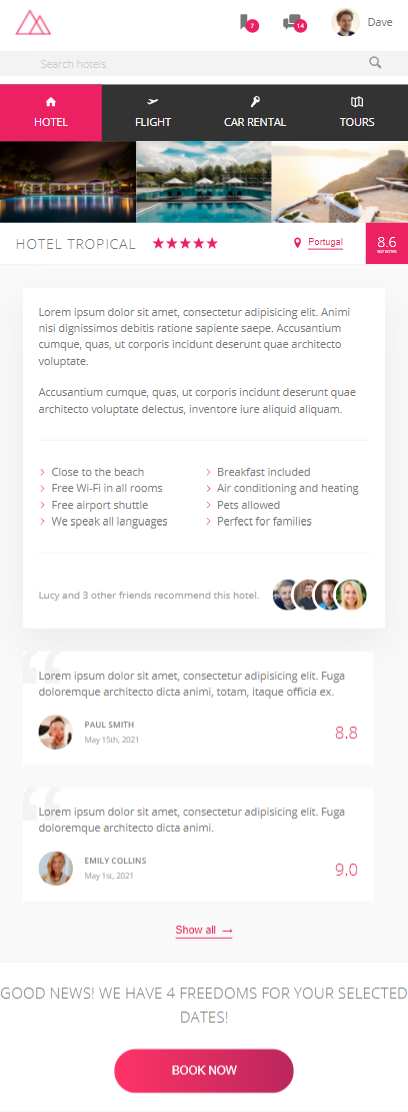
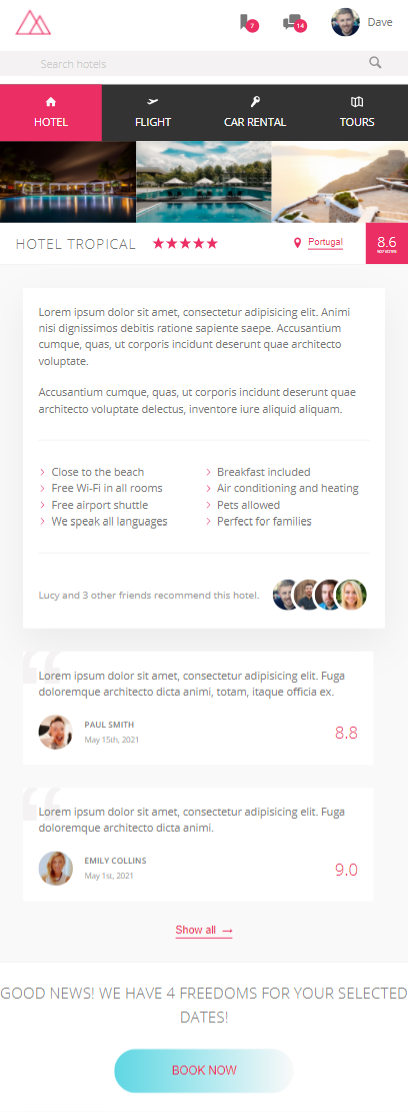
Updated README file and added screenshots

Changed region(s): [[0.2647, 0.9173, 0.7353, 1.0], [0.7941, 0.0, 0.8824, 0.0306]]

diff --git a/css/style.prefix.css b/css/style.prefix.css
@@ -1,7 +1,7 @@
 :root {
-  --color-primary: #eb2164;
-  --color-primary-light: #FF3366;
-  --color-primary-dark: #BA265D;
+  --color-primary: #eb2f64;
+  --color-primary-light: #0cc9dca3;
+  --color-primary-dark: #faf9f9;
   --color-grey-light-1: #faf9f9;
   --color-grey-light-2: #f4f2f2;
   --color-grey-light-3: #f0eeee;
@@ -38,8 +38,8 @@ body {
   font-weight: 400;
   line-height: 1.6;
   color: var(--color-grey-dark-2);
-  background-image: -webkit-gradient(linear, left top, right bottom, from(var(--color-primary-light)), to(var(--color-primary-dark)));
-  background-image: linear-gradient(to right bottom, var(--color-primary-light), var(--color-primary-dark));
+  background-image: -webkit-gradient(linear, left top, right bottom, from(var(--color-primary-light)), to(#faf9f9));
+  background-image: linear-gradient(to right bottom, var(--color-primary-light), #faf9f9);
   background-size: cover;
   background-repeat: no-repeat;
   min-height: 100vh; }
@@ -635,7 +635,7 @@ body {
   border: none;
   background-image: -webkit-gradient(linear, left top, right top, from(var(--color-primary-light)), to(var(--color-primary-dark)));
   background-image: linear-gradient(to right, var(--color-primary-light), var(--color-primary-dark));
-  color: #fff;
+  color: var(--color-primary);
   position: relative;
   overflow: hidden;
   cursor: pointer; }
@@ -669,4 +669,4 @@ body {
     -webkit-animation: pulsate 1s infinite;
             animation: pulsate 1s infinite; }
 
[2 lines of base64/hex data omitted]

diff --git a/css/style.css b/css/style.css
@@ -1,1 +1,1 @@
-:root{--color-primary: #eb2164;--color-primary-light: #FF3366;--color-primary-dark: #BA265D;--color-grey-light-1: #faf9f9;--color-grey-light-2: #f4f2f2;--color-grey-light-3: #f0eeee;--color-grey-light-4: #ccc;--color-grey-dark-1: #333;--color-grey-dark-2: #777;--color-grey-dark-3: #999;--shadow-dark: 0 2rem 6rem rgba(0, 0, 0, .3);--shadow-light: 0 2rem 5rem rgba(0, 0, 0, 0.06);--line: 1px solid var(--color-grey-light-2)}*{margin:0;padding:0;-webkit-box-sizing:border-box;box-sizing:border-box}*,*::before,*::after{-webkit-box-sizing:inherit;box-sizing:inherit}html{-webkit-box-sizing:border-box;box-sizing:border-box;font-size:62.5%}@media only screen and (max-width: 68.75em){html{font-size:50%}}body{font-family:'Open Sans', sans-serif;font-weight:400;line-height:1.6;color:var(--color-grey-dark-2);background-image:-webkit-gradient(linear, left top, right bottom, from(var(--color-primary-light)), to(var(--color-primary-dark)));background-image:linear-gradient(to right bottom, var(--color-primary-light), var(--color-primary-dark));background-size:cover;background-repeat:no-repeat;min-height:100vh}.container{max-width:120rem;margin:8rem auto;background-color:var(--color-grey-light-1);-webkit-box-shadow:var(--shadow-dark);box-shadow:var(--shadow-dark);min-height:50rem}@media only screen and (max-width: 75em){.container{margin:0;max-width:100%;width:100%}}.header{font-size:1.4rem;height:7rem;background-color:#fff;border-bottom:1px solid var(--color-grey-light-2);display:-webkit-box;display:-ms-flexbox;display:flex;-webkit-box-pack:justify;-ms-flex-pack:justify;justify-content:space-between;-webkit-box-align:center;-ms-flex-align:center;align-items:center}@media only screen and (max-width: 31.25em){.header{-ms-flex-wrap:wrap;flex-wrap:wrap;height:11rem;-ms-flex-line-pack:distribute;align-content:space-around}}.content{display:-webkit-box;display:-ms-flexbox;display:flex}@media only screen and (max-width: 56.25em){.content{-webkit-box-orient:vertical;-webkit-box-direction:normal;-ms-flex-direction:column;flex-direction:column}}.sidebar{background-color:var(--color-grey-dark-1);-webkit-box-flex:0;-ms-flex:0 0 18%;flex:0 0 18%;display:-webkit-box;display:-ms-flexbox;display:flex;-webkit-box-orient:vertical;-webkit-box-direction:normal;-ms-flex-direction:column;flex-direction:column;-webkit-box-pack:justify;-ms-flex-pack:justify;justify-content:space-between}.hotel-view{background-color:#fff;-webkit-box-flex:1;-ms-flex:1;flex:1}.detail{font-size:1.4rem;display:-webkit-box;display:-ms-flexbox;display:flex;padding:4.5rem;background-color:var(--color-grey-light-1);border-bottom:var(--line)}@media only screen and (max-width: 56.25em){.detail{padding:3rem}}@media only screen and (max-width: 37.5em){.detail{-webkit-box-orient:vertical;-webkit-box-direction:normal;-ms-flex-direction:column;flex-direction:column}}.description{background-color:#fff;-webkit-box-shadow:var(--shadow-light);box-shadow:var(--shadow-light);padding:3rem;-webkit-box-flex:0;-ms-flex:0 0 60%;flex:0 0 60%;margin-right:4.5rem}@media only screen and (max-width: 56.25em){.description{padding:2rem;margin-right:3rem}}@media only screen and (max-width: 37.5em){.description{margin-right:0;margin-bottom:3rem}}.user-reviews{-webkit-box-flex:1;-ms-flex:1;flex:1;display:-webkit-box;display:-ms-flexbox;display:flex;-webkit-box-orient:vertical;-webkit-box-direction:normal;-ms-flex-direction:column;flex-direction:column;-webkit-box-align:center;-ms-flex-align:center;align-items:center}.logo{height:3.25rem;margin-left:2rem}.search{-webkit-box-flex:0;-ms-flex:0 0 40%;flex:0 0 40%;display:-webkit-box;display:-ms-flexbox;display:flex;-webkit-box-align:center;-ms-flex-align:center;align-items:center;-webkit-box-pack:center;-ms-flex-pack:center;justify-content:center}@media only screen and (max-width: 31.25em){.search{-webkit-box-ordinal-group:2;-ms-flex-order:1;order:1;-webkit-box-flex:0;-ms-flex:0 0 100%;flex:0 0 100%;background-color:var(--color-grey-light-2)}}.search__input{font-family:inherit;font-size:inherit;color:inherit;background-color:var(--color-grey-light-2);border:none;padding:0.7rem 2rem;border-radius:100px;width:90%;-webkit-transition:all 0.2;transition:all 0.2;margin-right:-3.25rem}.search__input:focus{outline:none;width:100%;background-color:var(--color-grey-light-3)}.search__input::-webkit-input-placeholder{font-weight:100;color:var(--color-grey-light-4)}.search__input:focus+.search__button{background-color:var(--color-grey-light-3)}.search__button{border:none;background-color:var(--color-grey-light-2)}.search__button:focus{outline:none}.search__button:active{-webkit-transform:translateY(2px);transform:translateY(2px)}.search__icon{height:2rem;width:2rem;fill:var(--color-grey-dark-3)}.user-nav{display:-webkit-box;display:-ms-flexbox;display:flex;-webkit-box-align:center;-ms-flex-align:center;align-items:center;-ms-flex-item-align:stretch;align-self:stretch}.user-nav>*{padding:0 2rem;cursor:pointer;height:100%;display:-webkit-box;display:-ms-flexbox;display:flex;-webkit-box-align:center;-ms-flex-align:center;align-items:center}.user-nav>*:hover{background-color:var(--color-grey-light-2)}.user-nav__icon-box{position:relative}.user-nav__icon{height:2.25rem;width:2.25rem;fill:var(--color-grey-dark-2)}.user-nav__notification{font-size:0.8rem;height:1.75rem;width:1.75rem;border-radius:50%;background-color:var(--color-primary);color:#fff;position:absolute;top:1.5rem;right:1.1rem;display:-webkit-box;display:-ms-flexbox;display:flex;-webkit-box-pack:center;-ms-flex-pack:center;justify-content:center;-webkit-box-align:center;-ms-flex-align:center;align-items:center}.user-nav__user-photo{height:3.75rem;border-radius:50%;margin-right:1rem}.side-nav{font-size:1.4rem;list-style:none;margin-top:3.5rem}@media only screen and (max-width: 56.25em){.side-nav{display:-webkit-box;display:-ms-flexbox;display:flex;margin:0}}.side-nav__item{position:relative}.side-nav__item:not(:last-child){margin-bottom:0.5rem}@media only screen and (max-width: 56.25em){.side-nav__item:not(:last-child){margin:0}}@media only screen and (max-width: 56.25em){.side-nav__item{-webkit-box-flex:1;-ms-flex:1;flex:1}}.side-nav__item::before{content:"";position:absolute;left:0;height:100%;width:3px;background-color:var(--color-primary);-webkit-transform:scaleY(0);transform:scaleY(0);-webkit-transition:width 0.4s cubic-bezier(1, 0, 0, 1) 0.2s,background-color 0.1s,-webkit-transform 0.2s;transition:width 0.4s cubic-bezier(1, 0, 0, 1) 0.2s,background-color 0.1s,-webkit-transform 0.2s;transition:transform 0.2s,width 0.4s cubic-bezier(1, 0, 0, 1) 0.2s,background-color 0.1s;transition:transform 0.2s,width 0.4s cubic-bezier(1, 0, 0, 1) 0.2s,background-color 0.1s,-webkit-transform 0.2s}.side-nav__item:hover::before,.side-nav__item--active:before{-webkit-transform:scaleY(1);transform:scaleY(1);width:100%}.side-nav__item:active::before{background-color:var(--color-primary-light)}.side-nav__link:link,.side-nav__link:visited{position:relative;z-index:10;color:var(--color-grey-light-1);text-decoration:none;text-transform:uppercase;display:block;padding:1.5rem 3rem;display:-webkit-box;display:-ms-flexbox;display:flex;-webkit-box-align:center;-ms-flex-align:center;align-items:center}@media only screen and (max-width: 56.25em){.side-nav__link:link,.side-nav__link:visited{-webkit-box-pack:center;-ms-flex-pack:center;justify-content:center}}@media only screen and (max-width: 37.5em){.side-nav__link:link,.side-nav__link:visited{-webkit-box-orient:vertical;-webkit-box-direction:normal;-ms-flex-direction:column;flex-direction:column;padding:1.5rem 0.5rem}}.side-nav__icon{width:1.75rem;height:1.75rem;margin-right:2rem;fill:currentColor}@media only screen and (max-width: 37.5em){.side-nav__icon{margin-right:0;margin-bottom:0.7rem;width:1.5rem;height:1.5rem}}.legal{font-size:1.2rem;text-align:center;color:var(--color-grey-light-4);padding:2.5rem}@media only screen and (max-width: 56.25em){.legal{display:-webkit-box;display:-ms-flexbox;display:flex;margin:0;display:none}}.gallery{display:-webkit-box;display:-ms-flexbox;display:flex}.gallery__photo{width:100%;display:block}.overview{display:-webkit-box;display:-ms-flexbox;display:flex;border-bottom:1px solid var(--color-grey-light-2);-webkit-box-align:center;-ms-flex-align:center;align-items:center}.overview__heading{font-size:2.25rem;font-weight:300;text-transform:uppercase;letter-spacing:1px;padding:1.5rem 3rem}@media only screen and (max-width: 37.5em){.overview__heading{font-size:1.8rem;padding:1.25rem 2rem}}.overview__stars{margin-right:auto;display:-webkit-box;display:-ms-flexbox;display:flex}.overview__icon-star,.overview__icon-location{width:1.75rem;height:1.75rem;fill:var(--color-primary)}.overview__location{font-size:1.2rem;display:-webkit-box;display:-ms-flexbox;display:flex;-ms-flex-line-pack:center;align-content:center}.overview__icon-location{margin-right:0.5rem}.overview__rating{background-color:var(--color-primary);display:block;color:#fff;margin-left:3rem;padding:0 2.25rem;-ms-flex-item-align:stretch;align-self:stretch;display:-webkit-box;display:-ms-flexbox;display:flex;-webkit-box-orient:vertical;-webkit-box-direction:normal;-ms-flex-direction:column;flex-direction:column;-webkit-box-pack:center;-ms-flex-pack:center;justify-content:center;-webkit-box-align:center;-ms-flex-align:center;align-items:center}@media only screen and (max-width: 37.5em){.overview__rating{padding:0 1.5rem}}.overview__rating-average{font-size:2.25rem;font-weight:300;margin-bottom:-3px}@media only screen and (max-width: 37.5em){.overview__rating-average{font-size:1.8rem}}.overview__rating-count{font-size:0.8rem;text-transform:uppercase}@media only screen and (max-width: 37.5em){.overview__rating-count{font-size:0.5rem}}.btn-inline{border:none;color:var(--color-primary);font-size:inherit;border-bottom:1px solid currentColor;padding-bottom:2px;display:inline-block;background-color:transparent;cursor:pointer;-webkit-transition:all 0.2s;transition:all 0.2s}.btn-inline span{margin-left:3px;-webkit-transition:margin-left 0.2s;transition:margin-left 0.2s}.btn-inline:hover{color:var(--color-grey-dark-1)}.btn-inline:hover span{margin-left:8px}.btn-inline:focus{outline:none;-webkit-animation:pulsate 1s infinite;animation:pulsate 1s infinite}@-webkit-keyframes pulsate{0%{-webkit-transform:scale(1);transform:scale(1);-webkit-box-shadow:none;box-shadow:none}50%{-webkit-transform:scale(1.05);transform:scale(1.05);-webkit-box-shadow:0 1rem 4rem rgba(0,0,0,0.25);box-shadow:0 1rem 4rem rgba(0,0,0,0.25)}100%{-webkit-transform:scale(1);transform:scale(1);-webkit-box-shadow:none;box-shadow:none}}@keyframes pulsate{0%{-webkit-transform:scale(1);transform:scale(1);-webkit-box-shadow:none;box-shadow:none}50%{-webkit-transform:scale(1.05);transform:scale(1.05);-webkit-box-shadow:0 1rem 4rem rgba(0,0,0,0.25);box-shadow:0 1rem 4rem rgba(0,0,0,0.25)}100%{-webkit-transform:scale(1);transform:scale(1);-webkit-box-shadow:none;box-shadow:none}}.paragraph:not(:last-of-type){margin-bottom:2rem}.list{list-style:none;margin:3rem 0;padding:3rem 0;border-top:var(--line);border-bottom:var(--line);display:-webkit-box;display:-ms-flexbox;display:flex;-ms-flex-wrap:wrap;flex-wrap:wrap}.list__item{-webkit-box-flex:0;-ms-flex:0 0 50%;flex:0 0 50%}.list__item::before{content:"";display:inline-block;height:1rem;width:1rem;margin-right:0.7rem;background-color:var(--color-primary);-webkit-mask-image:url(../img/chevron-thin-right.svg);-webkit-mask-size:cover;mask-image:url(../img/chevron-thin-right.svg);mask-size:cover}.recommend{font-size:1.3rem;color:var(--color-grey-dark-3);display:-webkit-box;display:-ms-flexbox;display:flex;-webkit-box-align:center;-ms-flex-align:center;align-items:center}.recommend__count{margin-right:auto}.recommend__friends{display:-webkit-box;display:-ms-flexbox;display:flex}.recommend__photo{-webkit-box-sizing:content-box;box-sizing:content-box;height:4rem;width:4rem;border-radius:50%;border:3px solid #fff}.recommend__photo:not(:last-child){margin-right:-2rem}.review{position:relative;background-color:#fff;-webkit-box-shadow:var(-shadow-light);box-shadow:var(-shadow-light);padding:3rem;margin-bottom:3.5rem;margin-right:1.5rem;overflow:hidden}@media only screen and (max-width: 56.25em){.review{padding:2rem;margin-bottom:3rem}}.review__text{margin-bottom:2rem;z-index:10;position:relative}.review__user{display:-webkit-box;display:-ms-flexbox;display:flex;-webkit-box-align:center;-ms-flex-align:center;align-items:center}.review__photo{height:4.5rem;width:4.5rem;border-radius:50%;margin-right:1.5rem}.review__user-box{margin-right:auto}.review__user-name{font-size:1.1rem;font-weight:600;text-transform:uppercase;margin-bottom:0.4rem}.review__user-date{font-size:1rem;color:var(--color-grey-dark-3)}.review__rating{color:var(--color-primary);font-size:2.2rem;font-weight:300}.review::before{content:"\201C";position:absolute;top:-2.75rem;left:-1rem;line-height:1;font-size:20rem;color:var(--color-grey-light-2);font-family:sans-serif;z-index:1}.cta{padding:3.5rem 0;text-align:center}@media only screen and (max-width: 56.25em){.cta{padding:2.5rem 0}}.cta__book-now{font-size:2rem;font-weight:300;text-transform:uppercase;margin-bottom:2.5rem}.btn{font-size:1.5rem;font-weight:300;text-transform:uppercase;border-radius:100px;border:none;background-image:-webkit-gradient(linear, left top, right top, from(var(--color-primary-light)), to(var(--color-primary-dark)));background-image:linear-gradient(to right, var(--color-primary-light), var(--color-primary-dark));color:#fff;position:relative;overflow:hidden;cursor:pointer}.btn__visible{display:inline-block;height:100%;width:100%;padding:2rem 7.5rem;-webkit-transition:all 0.2s;transition:all 0.2s}.btn__invisible{display:inline-block;position:absolute;padding:2rem 0;height:100%;width:100%;left:0;top:-100%;-webkit-transition:all 0.2s;transition:all 0.2s}.btn:hover{background-image:-webkit-gradient(linear, right top, left top, from(var(--color-primary-light)), to(var(--color-primary-dark)));background-image:linear-gradient(to left, var(--color-primary-light), var(--color-primary-dark))}.btn:hover .btn__visible{-webkit-transform:translateY(100%);transform:translateY(100%)}.btn:hover .btn__invisible{top:0}.btn:focus{outline:none;-webkit-animation:pulsate 1s infinite;animation:pulsate 1s infinite}
+:root{--color-primary: #eb2f64;--color-primary-light: #0cc9dca3;--color-primary-dark: #faf9f9;--color-grey-light-1: #faf9f9;--color-grey-light-2: #f4f2f2;--color-grey-light-3: #f0eeee;--color-grey-light-4: #ccc;--color-grey-dark-1: #333;--color-grey-dark-2: #777;--color-grey-dark-3: #999;--shadow-dark: 0 2rem 6rem rgba(0, 0, 0, .3);--shadow-light: 0 2rem 5rem rgba(0, 0, 0, 0.06);--line: 1px solid var(--color-grey-light-2)}*{margin:0;padding:0;-webkit-box-sizing:border-box;box-sizing:border-box}*,*::before,*::after{-webkit-box-sizing:inherit;box-sizing:inherit}html{-webkit-box-sizing:border-box;box-sizing:border-box;font-size:62.5%}@media only screen and (max-width: 68.75em){html{font-size:50%}}body{font-family:'Open Sans', sans-serif;font-weight:400;line-height:1.6;color:var(--color-grey-dark-2);background-image:-webkit-gradient(linear, left top, right bottom, from(var(--color-primary-light)), to(#faf9f9));background-image:linear-gradient(to right bottom, var(--color-primary-light), #faf9f9);background-size:cover;background-repeat:no-repeat;min-height:100vh}.container{max-width:120rem;margin:8rem auto;background-color:var(--color-grey-light-1);-webkit-box-shadow:var(--shadow-dark);box-shadow:var(--shadow-dark);min-height:50rem}@media only screen and (max-width: 75em){.container{margin:0;max-width:100%;width:100%}}.header{font-size:1.4rem;height:7rem;background-color:#fff;border-bottom:1px solid var(--color-grey-light-2);display:-webkit-box;display:-ms-flexbox;display:flex;-webkit-box-pack:justify;-ms-flex-pack:justify;justify-content:space-between;-webkit-box-align:center;-ms-flex-align:center;align-items:center}@media only screen and (max-width: 31.25em){.header{-ms-flex-wrap:wrap;flex-wrap:wrap;height:11rem;-ms-flex-line-pack:distribute;align-content:space-around}}.content{display:-webkit-box;display:-ms-flexbox;display:flex}@media only screen and (max-width: 56.25em){.content{-webkit-box-orient:vertical;-webkit-box-direction:normal;-ms-flex-direction:column;flex-direction:column}}.sidebar{background-color:var(--color-grey-dark-1);-webkit-box-flex:0;-ms-flex:0 0 18%;flex:0 0 18%;display:-webkit-box;display:-ms-flexbox;display:flex;-webkit-box-orient:vertical;-webkit-box-direction:normal;-ms-flex-direction:column;flex-direction:column;-webkit-box-pack:justify;-ms-flex-pack:justify;justify-content:space-between}.hotel-view{background-color:#fff;-webkit-box-flex:1;-ms-flex:1;flex:1}.detail{font-size:1.4rem;display:-webkit-box;display:-ms-flexbox;display:flex;padding:4.5rem;background-color:var(--color-grey-light-1);border-bottom:var(--line)}@media only screen and (max-width: 56.25em){.detail{padding:3rem}}@media only screen and (max-width: 37.5em){.detail{-webkit-box-orient:vertical;-webkit-box-direction:normal;-ms-flex-direction:column;flex-direction:column}}.description{background-color:#fff;-webkit-box-shadow:var(--shadow-light);box-shadow:var(--shadow-light);padding:3rem;-webkit-box-flex:0;-ms-flex:0 0 60%;flex:0 0 60%;margin-right:4.5rem}@media only screen and (max-width: 56.25em){.description{padding:2rem;margin-right:3rem}}@media only screen and (max-width: 37.5em){.description{margin-right:0;margin-bottom:3rem}}.user-reviews{-webkit-box-flex:1;-ms-flex:1;flex:1;display:-webkit-box;display:-ms-flexbox;display:flex;-webkit-box-orient:vertical;-webkit-box-direction:normal;-ms-flex-direction:column;flex-direction:column;-webkit-box-align:center;-ms-flex-align:center;align-items:center}.logo{height:3.25rem;margin-left:2rem}.search{-webkit-box-flex:0;-ms-flex:0 0 40%;flex:0 0 40%;display:-webkit-box;display:-ms-flexbox;display:flex;-webkit-box-align:center;-ms-flex-align:center;align-items:center;-webkit-box-pack:center;-ms-flex-pack:center;justify-content:center}@media only screen and (max-width: 31.25em){.search{-webkit-box-ordinal-group:2;-ms-flex-order:1;order:1;-webkit-box-flex:0;-ms-flex:0 0 100%;flex:0 0 100%;background-color:var(--color-grey-light-2)}}.search__input{font-family:inherit;font-size:inherit;color:inherit;background-color:var(--color-grey-light-2);border:none;padding:0.7rem 2rem;border-radius:100px;width:90%;-webkit-transition:all 0.2;transition:all 0.2;margin-right:-3.25rem}.search__input:focus{outline:none;width:100%;background-color:var(--color-grey-light-3)}.search__input::-webkit-input-placeholder{font-weight:100;color:var(--color-grey-light-4)}.search__input:focus+.search__button{background-color:var(--color-grey-light-3)}.search__button{border:none;background-color:var(--color-grey-light-2)}.search__button:focus{outline:none}.search__button:active{-webkit-transform:translateY(2px);transform:translateY(2px)}.search__icon{height:2rem;width:2rem;fill:var(--color-grey-dark-3)}.user-nav{display:-webkit-box;display:-ms-flexbox;display:flex;-webkit-box-align:center;-ms-flex-align:center;align-items:center;-ms-flex-item-align:stretch;align-self:stretch}.user-nav>*{padding:0 2rem;cursor:pointer;height:100%;display:-webkit-box;display:-ms-flexbox;display:flex;-webkit-box-align:center;-ms-flex-align:center;align-items:center}.user-nav>*:hover{background-color:var(--color-grey-light-2)}.user-nav__icon-box{position:relative}.user-nav__icon{height:2.25rem;width:2.25rem;fill:var(--color-grey-dark-2)}.user-nav__notification{font-size:0.8rem;height:1.75rem;width:1.75rem;border-radius:50%;background-color:var(--color-primary);color:#fff;position:absolute;top:1.5rem;right:1.1rem;display:-webkit-box;display:-ms-flexbox;display:flex;-webkit-box-pack:center;-ms-flex-pack:center;justify-content:center;-webkit-box-align:center;-ms-flex-align:center;align-items:center}.user-nav__user-photo{height:3.75rem;border-radius:50%;margin-right:1rem}.side-nav{font-size:1.4rem;list-style:none;margin-top:3.5rem}@media only screen and (max-width: 56.25em){.side-nav{display:-webkit-box;display:-ms-flexbox;display:flex;margin:0}}.side-nav__item{position:relative}.side-nav__item:not(:last-child){margin-bottom:0.5rem}@media only screen and (max-width: 56.25em){.side-nav__item:not(:last-child){margin:0}}@media only screen and (max-width: 56.25em){.side-nav__item{-webkit-box-flex:1;-ms-flex:1;flex:1}}.side-nav__item::before{content:"";position:absolute;left:0;height:100%;width:3px;background-color:var(--color-primary);-webkit-transform:scaleY(0);transform:scaleY(0);-webkit-transition:width 0.4s cubic-bezier(1, 0, 0, 1) 0.2s,background-color 0.1s,-webkit-transform 0.2s;transition:width 0.4s cubic-bezier(1, 0, 0, 1) 0.2s,background-color 0.1s,-webkit-transform 0.2s;transition:transform 0.2s,width 0.4s cubic-bezier(1, 0, 0, 1) 0.2s,background-color 0.1s;transition:transform 0.2s,width 0.4s cubic-bezier(1, 0, 0, 1) 0.2s,background-color 0.1s,-webkit-transform 0.2s}.side-nav__item:hover::before,.side-nav__item--active:before{-webkit-transform:scaleY(1);transform:scaleY(1);width:100%}.side-nav__item:active::before{background-color:var(--color-primary-light)}.side-nav__link:link,.side-nav__link:visited{position:relative;z-index:10;color:var(--color-grey-light-1);text-decoration:none;text-transform:uppercase;display:block;padding:1.5rem 3rem;display:-webkit-box;display:-ms-flexbox;display:flex;-webkit-box-align:center;-ms-flex-align:center;align-items:center}@media only screen and (max-width: 56.25em){.side-nav__link:link,.side-nav__link:visited{-webkit-box-pack:center;-ms-flex-pack:center;justify-content:center}}@media only screen and (max-width: 37.5em){.side-nav__link:link,.side-nav__link:visited{-webkit-box-orient:vertical;-webkit-box-direction:normal;-ms-flex-direction:column;flex-direction:column;padding:1.5rem 0.5rem}}.side-nav__icon{width:1.75rem;height:1.75rem;margin-right:2rem;fill:currentColor}@media only screen and (max-width: 37.5em){.side-nav__icon{margin-right:0;margin-bottom:0.7rem;width:1.5rem;height:1.5rem}}.legal{font-size:1.2rem;text-align:center;color:var(--color-grey-light-4);padding:2.5rem}@media only screen and (max-width: 56.25em){.legal{display:-webkit-box;display:-ms-flexbox;display:flex;margin:0;display:none}}.gallery{display:-webkit-box;display:-ms-flexbox;display:flex}.gallery__photo{width:100%;display:block}.overview{display:-webkit-box;display:-ms-flexbox;display:flex;border-bottom:1px solid var(--color-grey-light-2);-webkit-box-align:center;-ms-flex-align:center;align-items:center}.overview__heading{font-size:2.25rem;font-weight:300;text-transform:uppercase;letter-spacing:1px;padding:1.5rem 3rem}@media only screen and (max-width: 37.5em){.overview__heading{font-size:1.8rem;padding:1.25rem 2rem}}.overview__stars{margin-right:auto;display:-webkit-box;display:-ms-flexbox;display:flex}.overview__icon-star,.overview__icon-location{width:1.75rem;height:1.75rem;fill:var(--color-primary)}.overview__location{font-size:1.2rem;display:-webkit-box;display:-ms-flexbox;display:flex;-ms-flex-line-pack:center;align-content:center}.overview__icon-location{margin-right:0.5rem}.overview__rating{background-color:var(--color-primary);display:block;color:#fff;margin-left:3rem;padding:0 2.25rem;-ms-flex-item-align:stretch;align-self:stretch;display:-webkit-box;display:-ms-flexbox;display:flex;-webkit-box-orient:vertical;-webkit-box-direction:normal;-ms-flex-direction:column;flex-direction:column;-webkit-box-pack:center;-ms-flex-pack:center;justify-content:center;-webkit-box-align:center;-ms-flex-align:center;align-items:center}@media only screen and (max-width: 37.5em){.overview__rating{padding:0 1.5rem}}.overview__rating-average{font-size:2.25rem;font-weight:300;margin-bottom:-3px}@media only screen and (max-width: 37.5em){.overview__rating-average{font-size:1.8rem}}.overview__rating-count{font-size:0.8rem;text-transform:uppercase}@media only screen and (max-width: 37.5em){.overview__rating-count{font-size:0.5rem}}.btn-inline{border:none;color:var(--color-primary);font-size:inherit;border-bottom:1px solid currentColor;padding-bottom:2px;display:inline-block;background-color:transparent;cursor:pointer;-webkit-transition:all 0.2s;transition:all 0.2s}.btn-inline span{margin-left:3px;-webkit-transition:margin-left 0.2s;transition:margin-left 0.2s}.btn-inline:hover{color:var(--color-grey-dark-1)}.btn-inline:hover span{margin-left:8px}.btn-inline:focus{outline:none;-webkit-animation:pulsate 1s infinite;animation:pulsate 1s infinite}@-webkit-keyframes pulsate{0%{-webkit-transform:scale(1);transform:scale(1);-webkit-box-shadow:none;box-shadow:none}50%{-webkit-transform:scale(1.05);transform:scale(1.05);-webkit-box-shadow:0 1rem 4rem rgba(0,0,0,0.25);box-shadow:0 1rem 4rem rgba(0,0,0,0.25)}100%{-webkit-transform:scale(1);transform:scale(1);-webkit-box-shadow:none;box-shadow:none}}@keyframes pulsate{0%{-webkit-transform:scale(1);transform:scale(1);-webkit-box-shadow:none;box-shadow:none}50%{-webkit-transform:scale(1.05);transform:scale(1.05);-webkit-box-shadow:0 1rem 4rem rgba(0,0,0,0.25);box-shadow:0 1rem 4rem rgba(0,0,0,0.25)}100%{-webkit-transform:scale(1);transform:scale(1);-webkit-box-shadow:none;box-shadow:none}}.paragraph:not(:last-of-type){margin-bottom:2rem}.list{list-style:none;margin:3rem 0;padding:3rem 0;border-top:var(--line);border-bottom:var(--line);display:-webkit-box;display:-ms-flexbox;display:flex;-ms-flex-wrap:wrap;flex-wrap:wrap}.list__item{-webkit-box-flex:0;-ms-flex:0 0 50%;flex:0 0 50%}.list__item::before{content:"";display:inline-block;height:1rem;width:1rem;margin-right:0.7rem;background-color:var(--color-primary);-webkit-mask-image:url(../img/chevron-thin-right.svg);-webkit-mask-size:cover;mask-image:url(../img/chevron-thin-right.svg);mask-size:cover}.recommend{font-size:1.3rem;color:var(--color-grey-dark-3);display:-webkit-box;display:-ms-flexbox;display:flex;-webkit-box-align:center;-ms-flex-align:center;align-items:center}.recommend__count{margin-right:auto}.recommend__friends{display:-webkit-box;display:-ms-flexbox;display:flex}.recommend__photo{-webkit-box-sizing:content-box;box-sizing:content-box;height:4rem;width:4rem;border-radius:50%;border:3px solid #fff}.recommend__photo:not(:last-child){margin-right:-2rem}.review{position:relative;background-color:#fff;-webkit-box-shadow:var(-shadow-light);box-shadow:var(-shadow-light);padding:3rem;margin-bottom:3.5rem;margin-right:1.5rem;overflow:hidden}@media only screen and (max-width: 56.25em){.review{padding:2rem;margin-bottom:3rem}}.review__text{margin-bottom:2rem;z-index:10;position:relative}.review__user{display:-webkit-box;display:-ms-flexbox;display:flex;-webkit-box-align:center;-ms-flex-align:center;align-items:center}.review__photo{height:4.5rem;width:4.5rem;border-radius:50%;margin-right:1.5rem}.review__user-box{margin-right:auto}.review__user-name{font-size:1.1rem;font-weight:600;text-transform:uppercase;margin-bottom:0.4rem}.review__user-date{font-size:1rem;color:var(--color-grey-dark-3)}.review__rating{color:var(--color-primary);font-size:2.2rem;font-weight:300}.review::before{content:"\201C";position:absolute;top:-2.75rem;left:-1rem;line-height:1;font-size:20rem;color:var(--color-grey-light-2);font-family:sans-serif;z-index:1}.cta{padding:3.5rem 0;text-align:center}@media only screen and (max-width: 56.25em){.cta{padding:2.5rem 0}}.cta__book-now{font-size:2rem;font-weight:300;text-transform:uppercase;margin-bottom:2.5rem}.btn{font-size:1.5rem;font-weight:300;text-transform:uppercase;border-radius:100px;border:none;background-image:-webkit-gradient(linear, left top, right top, from(var(--color-primary-light)), to(var(--color-primary-dark)));background-image:linear-gradient(to right, var(--color-primary-light), var(--color-primary-dark));color:var(--color-primary);position:relative;overflow:hidden;cursor:pointer}.btn__visible{display:inline-block;height:100%;width:100%;padding:2rem 7.5rem;-webkit-transition:all 0.2s;transition:all 0.2s}.btn__invisible{display:inline-block;position:absolute;padding:2rem 0;height:100%;width:100%;left:0;top:-100%;-webkit-transition:all 0.2s;transition:all 0.2s}.btn:hover{background-image:-webkit-gradient(linear, right top, left top, from(var(--color-primary-light)), to(var(--color-primary-dark)));background-image:linear-gradient(to left, var(--color-primary-light), var(--color-primary-dark))}.btn:hover .btn__visible{-webkit-transform:translateY(100%);transform:translateY(100%)}.btn:hover .btn__invisible{top:0}.btn:focus{outline:none;-webkit-animation:pulsate 1s infinite;animation:pulsate 1s infinite}

diff --git a/css/style.comp.css b/css/style.comp.css
@@ -1,7 +1,7 @@
 :root {
-  --color-primary: #eb2164;
-  --color-primary-light: #FF3366;
-  --color-primary-dark: #BA265D;
+  --color-primary: #eb2f64;
+  --color-primary-light: #0cc9dca3;
+  --color-primary-dark: #faf9f9;
   --color-grey-light-1: #faf9f9;
   --color-grey-light-2: #f4f2f2;
   --color-grey-light-3: #f0eeee;
@@ -35,7 +35,7 @@ body {
   font-weight: 400;
   line-height: 1.6;
   color: var(--color-grey-dark-2);
-  background-image: linear-gradient(to right bottom, var(--color-primary-light), var(--color-primary-dark));
+  background-image: linear-gradient(to right bottom, var(--color-primary-light), #faf9f9);
   background-size: cover;
   background-repeat: no-repeat;
   min-height: 100vh; }
@@ -475,7 +475,7 @@ body {
   border-radius: 100px;
   border: none;
   background-image: linear-gradient(to right, var(--color-primary-light), var(--color-primary-dark));
-  color: #fff;
+  color: var(--color-primary);
   position: relative;
   overflow: hidden;
   cursor: pointer; }

diff --git a/sass/_base.scss b/sass/_base.scss
@@ -1,7 +1,7 @@
 :root {
-  --color-primary: #eb2164;
-  --color-primary-light: #FF3366;
-  --color-primary-dark: #BA265D;
+  --color-primary: #eb2f64;
+  --color-primary-light: #0cc9dca3;
+  --color-primary-dark: #faf9f9;
 
   --color-grey-light-1: #faf9f9;
   --color-grey-light-2: #f4f2f2;
@@ -51,7 +51,7 @@ body {
   font-weight: 400;
   line-height: 1.6;
   color: var(--color-grey-dark-2);
-  background-image: linear-gradient(to right bottom, var(--color-primary-light), var(--color-primary-dark));
+  background-image: linear-gradient(to right bottom, var(--color-primary-light), #faf9f9);
   background-size: cover;
   background-repeat: no-repeat;
 

diff --git a/index.html b/index.html
@@ -37,7 +37,7 @@
 							<span class="user-nav__notification">14</span>
 						</div>
 						<div class="user-nav__user">
-							<img class="user-nav__user-photo" src="img/user.jpg" alt="User photo">
+							<img class="user-nav__user-photo" src="img/user-3.jpg" alt="User photo">
 							<span class="user-nav__user-name">Dave</span>
 						</div>
 					</nav>

diff --git a/sass/_components.scss b/sass/_components.scss
@@ -515,7 +515,7 @@
   border-radius: 100px;
   border: none;
   background-image: linear-gradient(to right, var(--color-primary-light), var(--color-primary-dark)); 
-  color: #fff;
+  color: var(--color-primary);
   position: relative;
   overflow: hidden;
   cursor: pointer;

diff --git a/README.md b/README.md
@@ -1,0 +1,38 @@
+# Onlineshop
+
+This project uses SASS, HTML and npm to create a responsive fictional travel website.
+
+No bootstrap was used for the layout only flex box and Sass.
+
+The page is responsive and include some CSS animations on the buttons when you click or hover over them.
+
+
+## To run application
+To run the application locally you will need to have Node installed.
+
+After cloning the repository navigate to the console/terminal to the root directory and run the command npm run start
+
+This should open your browser `http://127.0.0.1:8080/` where you can see the web page.
+
+## Screenshots
+
+Desktop view
+
+<img src="img/desktop.png">
+
+Laptop view
+
+<img src="img/laptop.png">
+
+Smaller laptop view
+
+<img src="img/smallerlaptop.png">
+
+Tablet view
+
+<img src="img/tablet.png">
+
+Mobile view
+
+<img src="img/mobile.png">
+
